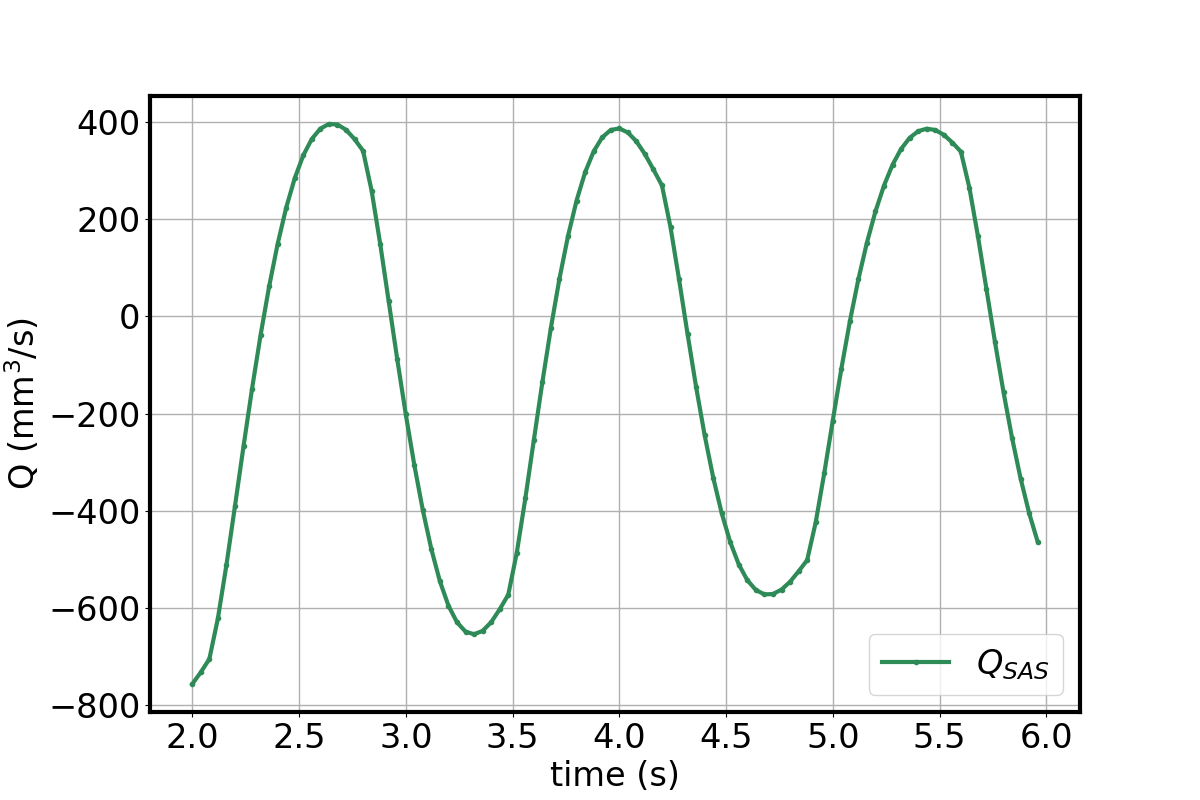
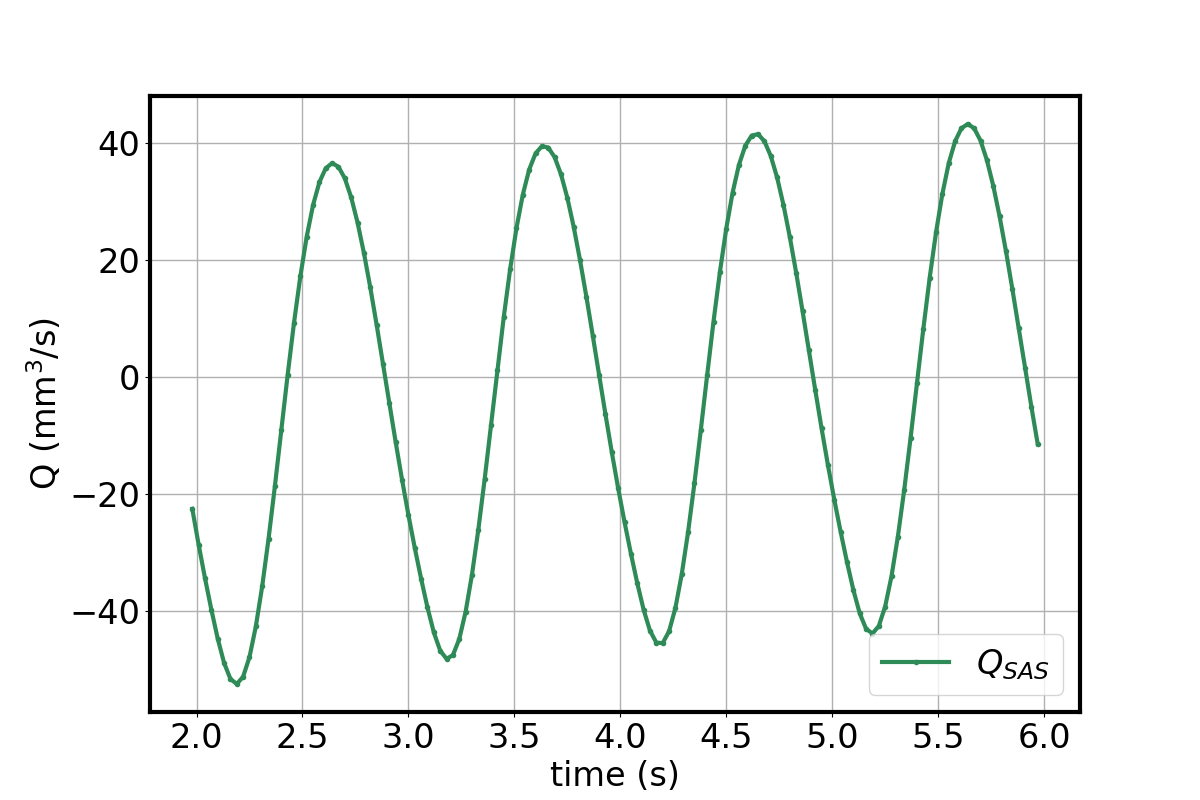
Update 15.03

diff --git a/MPET.py b/MPET.py
@@ -351,7 +351,7 @@ class MPET:
         [bc.apply(A) for bc in self.bcs_D]
 
         up = Function(W)
-        t = 0.0
+        self.t = 0.0
 
  
         dV_PREV_SAS = 0.0
@@ -359,7 +359,7 @@ class MPET:
       
         for i in range(0,self.numTsteps+1): #Time loop
             
-            self.update_time_expr(t)# Update all time dependent terms
+            self.update_time_expr(self.t)# Update all time dependent terms
             
             b = assemble(rhs)
             for bc in self.bcs_D:
@@ -372,28 +372,31 @@ class MPET:
             up_split = up.split(deepcopy = True)
             results = self.generate_diagnostics(*up_split)
 
-            xdmfU.write(up.sub(0), t)
-            xdmfP0.write(up.sub(1), t)
+            xdmfU.write(up.sub(0), self.t)
+            xdmfP0.write(up.sub(1), self.t)
             for j in range(self.numPnetworks):
-                xdmfP[j].write(up.sub(j+2), t)
+                xdmfP[j].write(up.sub(j+2), self.t)
 
 
             #For calculating volume change in Windkessel model
             results["dV_SAS_PREV"] = dV_PREV_SAS
             results["dV_VEN_PREV"] = dV_PREV_VEN
             
-            p_SAS_f, p_VEN_f,Vv_dot,Vs_dot = self.coupled_2P_model(p_SAS_f,p_VEN_f,results) #calculates windkessel pressure @ t
-            #p_SAS_f, p_VEN_f,p_SP_f,Vv_dot,Vs_dot = self.coupled_3P_model(p_SAS_f,p_VEN_f,p_SP_f,results) #calculates windkessel pressure @ t
+            #p_SAS_f, p_VEN_f,Vv_dot,Vs_dot,Q_AQ = self.coupled_2P_model(p_SAS_f,p_VEN_f,results) #calculates windkessel pressure @ t
+            p_SAS_f, p_VEN_f,p_SP_f,Vv_dot,Vs_dot,Q_AQ,Q_FM = self.coupled_3P_model(p_SAS_f,p_VEN_f,p_SP_f,results) #calculates windkessel pressure @ t
             self.update_windkessel_expr(p_SAS_f,p_VEN_f) # Update all terms dependent on the windkessel pressures
 
 
             results["p_SAS"] = p_SAS_f
             results["p_VEN"] = p_VEN_f
-            #if p_SP_f:
-            #    results["p_SP"] = p_SP_f
+            if p_SP_f in locals():
+                results["p_SP"] = p_SP_f
+
+            results["Q_AQ"] = Q_AQ
+            results["Q_FM"] = Q_FM
             results["Vv_dot"] = Vv_dot
             results["Vs_dot"] =  Vs_dot
-            results["t"] = t
+            results["t"] = self.t
 
             dV_PREV_SAS = results["dV_SAS"]
             dV_PREV_VEN = results["dV_VEN"]
@@ -403,7 +406,7 @@ class MPET:
             up_n.assign(up)
             progress += 1
 
-            t += self.dt
+            self.t += self.dt
          
         res = []
         res = split(up)
@@ -416,7 +419,7 @@ class MPET:
     def plotResults(self):
 
         plotDir = "%s/plots/" %self.filesave
-        plotCycle = 2 #Start plot after the second cycle
+        plotCycle = 5 #Start plot after the fifth cycle
         initPlot = int(self.numTsteps/self.T*plotCycle) 
 
         dV_fig, dV_ax = pylab.subplots(figsize=(12, 8))
@@ -514,8 +517,9 @@ class MPET:
 
         Q_SAS =  df["Q_SAS_N3"] 
         Q_VEN =  df["Q_VEN_N3"]
+        
 
-
+        
         # Plot outflow of CSF
         Qs_axs.plot(times[initPlot:-1], Q_SAS[initPlot:-1], markers[0], color="seagreen",label="$Q_{SAS}$")
 
@@ -534,6 +538,8 @@ class MPET:
         Qv_axs.grid(True)
         Qv_axs.legend()
         Qv_figs.savefig(plotDir + "brain-Q_ven.png")
+
+        
 
         BV = df["Q_SAS_N2"] + df["Q_VEN_N2"] 
         
@@ -572,8 +578,39 @@ class MPET:
         t_ax.legend()
         t_fig.savefig(plotDir + "brain-Ts.png")
     
-        
+
+        if "Q_AQ" in df.keys():
+
+            Qaq_figs, Qaq_axs  = pylab.subplots(figsize=(12, 8)) #Outflow CSF to SAS
+            Q_AQ = df["Q_AQ"]
+
+            Qfm_figs, Qfm_axs  = pylab.subplots(figsize=(12, 8)) #Outflow CSF to SAS
+
+
   
+            Qaq_axs.plot(times[initPlot:-1], Q_AQ[initPlot:-1], markers[0], color="darkmagenta",label="$Q_{AQ}$")
+            Qaq_axs.set_xlabel("time (s)")
+            Qaq_axs.set_xticks(x_ticks)
+            Qaq_axs.set_ylabel("Q (mm$^3$/s)")
+            Qaq_axs.grid(True)
+            Qaq_axs.legend()
+            Qaq_figs.savefig(plotDir + "brain-Q_aq.png")
+
+        if "Q_FM" in df.keys():
+
+            Qfm_figs, Qfm_axs  = pylab.subplots(figsize=(12, 8)) #Outflow CSF to SAS
+            Q_FM = df["Q_FM"]
+
+
+            Qfm_axs.plot(times[initPlot:-1], Q_FM[initPlot:-1], markers[0], color="darkmagenta",label="$Q_{FM}$")
+            Qfm_axs.set_xlabel("time (s)")
+            Qfm_axs.set_xticks(x_ticks)
+            Qfm_axs.set_ylabel("Q (mm$^3$/s)")
+            Qfm_axs.grid(True)
+            Qfm_axs.legend()
+            Qfm_figs.savefig(plotDir + "brain-Q_fm.png")
+
+
 
     def generate_diagnostics(self,*args):
         results = {}
@@ -715,50 +752,34 @@ class MPET:
         Q_VEN = results["Q_VEN_N3"]
         print("Q_VEN:",Q_VEN)
 
-        #Range to avoid instabilities
-        V_dotRange = 500
-        
-        #Volume change of ventricles
-        Vv_dot = 1/self.dt*(results["dV_VEN"]-results["dV_VEN_PREV"])
-        Vv_dot_WK = max([-V_dotRange, min([Vv_dot,V_dotRange])]) #Used in the WK model
+        #Scale to avoid instabilities
+        V_dotScale = 1/100
 
+        #Volume change of ventricles
+        Vv_dot = V_dotScale/self.dt*(results["dV_VEN"]-results["dV_VEN_PREV"])
+        
 
         #Volume change of SAS
-        Vs_dot = 1/self.dt*(results["dV_SAS"]-results["dV_SAS_PREV"])
+        Vs_dot = V_dotScale/self.dt*(results["dV_SAS"]-results["dV_SAS_PREV"])
 
-        Vs_dot_WK = max([-V_dotRange, min([Vs_dot,V_dotRange])]) #Used in the WK model
-        print("Volume change ventricles:",Vv_dot)
-        print("Volume change SAS",Vs_dot)
+        print("Rate of volume change, ventricles:",Vv_dot/V_dotScale)
+        print("Rate of volume change, SAS",Vs_dot/V_dotScale)
 
         #Conductance Aqueduct
         G_aq = np.pi*self.d**4/(128*self.L*self.mu_f[2]) #Poiseuille flow constant
       
-        Q_AQ = G_aq*(p_VEN - p_SAS)
+        Q_AQ = G_aq*(p_SAS - p_VEN)
         print("Q_AQ:",Q_AQ)
 
-        #ALT 1
+        
         """
-        dp_ven/dt = 1/C*dV_ven/dt
-        dp_sas/dt = 1/C(Q_SAS + G_aq(p_VEN - p_SAS))
-
-        b_SAS = p_SAS + self.dt/self.C_SAS * Q_SAS
-        b_VEN = p_VEN + self.dt/self.C_VEN *V_dot
-
-        A_11 = 1 + self.dt/self.C_SAS*G_aq
-        A_12 = -self.dt/self.C_SAS*G_aq
-        A_21 = 0
-        A_22 = 1
-        """
-
-        #ALT 2
-        """
-        dp_sas/dt = 1/C_sas(Vs_dot + Q_SAS + C_aq(p_VEN - p_SAS))
-        dp_ven/dt = 1/C_ven(Vv_dot + Q_VEn + C_aq(p_SAS - p_VEN))
+        dp_sas/dt = 1/C_sas(Vs_dot + Q_SAS + G_aq(p_VEN - p_SAS))
+        dp_ven/dt = 1/C_ven(Vv_dot + Q_VEN + G_aq(p_SAS - p_VEN))
         
         """
 
-        b_SAS = p_SAS + self.dt/self.C_SAS * (Q_SAS + Vs_dot_WK)
-        b_VEN = p_VEN + self.dt/self.C_VEN * (Q_VEN + Vv_dot_WK)
+        b_SAS = p_SAS + self.dt/self.C_SAS * (Q_SAS + Vs_dot)
+        b_VEN = p_VEN + self.dt/self.C_VEN * (Q_VEN + Vv_dot)
 
         A_11 = 1 + self.dt*G_aq/self.C_SAS
         A_12 = -self.dt*G_aq/self.C_SAS
@@ -771,7 +792,7 @@ class MPET:
 
         x = np.linalg.solve(A,b) #x_0 = p_SAS, x_1 = p_VEN
 
-        return x[0], x[1],Vv_dot,Vs_dot
+        return x[0], x[1],Vv_dot/V_dotScale,Vs_dot/V_dotScale,Q_AQ
 
     def coupled_3P_model(self,p_SAS,p_VEN,p_SP,results):
         """
@@ -782,7 +803,7 @@ class MPET:
         """
         #Assume only flow from ECS flow out to the CSF filled cavities
 
-        scale = 10**(0)
+        
         print("Pressure for SAS: ", p_SAS)
         print("Pressure for ventricles: ", p_VEN)
         print("Pressure in spinal-SAS:", p_SP)
@@ -795,36 +816,44 @@ class MPET:
         Q_VEN = results["Q_VEN_N3"]
         print("Q_VEN:",Q_VEN)
 
+        #To avoid instabilities
+        #if self.t < 3.0:
+        V_dotScale = 1/100
+        #else:
 
         #Volume change of ventricles
-        Vv_dot = 1/self.dt*(results["dV_VEN"]-results["dV_VEN_PREV"])
+        Vv_dot = V_dotScale/self.dt*(results["dV_VEN"]-results["dV_VEN_PREV"])
+        
         #Volume change of SAS
-        Vs_dot = 1/self.dt*(results["dV_SAS"]-results["dV_SAS_PREV"])
-
-        print("Volume change ventricles:",Vv_dot)
-        print("Volume change SAS",Vs_dot)
+        Vs_dot = V_dotScale/self.dt*(results["dV_SAS"]-results["dV_SAS_PREV"])
+        
+        
+        print("Volume change ventricles:",Vv_dot/V_dotScale)
+        print("Volume change SAS",Vs_dot/V_dotScale)
 
         #Conductance
         G_aq = np.pi*self.d**4/(128*self.L*self.mu_f[2]) #Poiseuille flow constant
         G_sas = G_aq*5 #From LM article
         G_fm = G_aq*10 #From LM article
-        Q_AQ = G_aq*(p_VEN - p_SAS)
-        Q_FM = G_aq*(p_VEN - p_SAS)
+
+        # "Positive" direction upwards, same as baledent article
+        Q_AQ = G_aq*(p_SAS - p_VEN)
+        Q_FM = G_fm*(p_SP - p_SAS)
 
         print("Q_AQ:",Q_AQ)
         print("Q_FM:",Q_FM)
+
         """
         Equations 
         dp_sas/dt = 1/C_sas(Vs_dot + Q_SAS + G_aq(p_VEN - p_SAS) + G_fm(p_SP-p_SAS)
         dp_ven/dt = 1/C_ven(Vv_dot + Q_VEn + G_aq(p_SAS - p_VEN))
         dp_sp/dt = 1/C_sp(G_fm(p_SAS-p_SP))
-        
         """
 
         b_SAS = p_SAS + self.dt/self.C_SAS * (Q_SAS + Vs_dot)
         b_VEN = p_VEN + self.dt/self.C_VEN * (Q_VEN + Vv_dot)
         b_SP = p_SP
-        A_11 = 1 + self.dt*G_aq/self.C_SAS
+        A_11 = 1 + self.dt*G_aq/self.C_SAS + self.dt*G_fm/self.C_SAS 
         A_12 = -self.dt*G_aq/self.C_SAS
         A_13 = -self.dt*G_fm/self.C_SAS
         A_21 = -self.dt*G_aq/self.C_VEN
@@ -838,9 +867,9 @@ class MPET:
         b = np.array([b_SAS, b_VEN, b_SP])
         A = np.array([[A_11, A_12, A_13],[A_21, A_22, A_23],[A_31, A_32, A_33]])
 
-        x = np.linalg.solve(A,b) #x_0 = p_SAS, x_1 = p_VEN
+        x = np.linalg.solve(A,b) #x_0 = p_SAS, x_1 = p_VEN, x_2 = p_SP
 
-        return x[0], x[1],x[2],Vv_dot,Vs_dot
+        return x[0], x[1],x[2],Vv_dot/V_dotScale,Vs_dot/V_dotScale,Q_AQ,Q_FM
 
     def coupled_4P_model(self,p_SAS,p_VEN,p_4VEN,p_SP,results):
         """

diff --git a/run_MPET_3D.py b/run_MPET_3D.py
@@ -23,50 +23,19 @@ class BoundaryInner(SubDomain):
 
 def run_MPET_3D_TestSphere():
 
-    ymlFile = open("configurations/3D_TEST_RigidMotion.yml") 
+    ymlFile = open("configurations/3D_TEST_RigidMotion_3PWK.yml") 
     parsedValues = yaml.load(ymlFile, Loader=yaml.FullLoader)
     materialParameters = parsedValues['material_parameters']
     settings = parsedValues['solver_settings']
     sourceParameters = parsedValues['source_data']
     boundaryParameters = parsedValues['boundary_parameters']
 
-
-    
-    """
-    origin = Point(0.0, 0.0, 0.0)
-
-    meshN = settings["mesh_resolution"]
-
-
-
-    r1 = 100  # Outer radius (mm)
-    r2 = 30  # Inner radius  (mm)
-
-    parenchyma = Sphere(origin, r1)
-    ventricles = Sphere(origin, r2)
-    channel = Box(Point(0.0, -50.0, -50.0),Point(100, 50.0, 50.0))
-
-    import numpy as np
-
-    g3d = parenchyma - ventricles #- channel
-
-    # Test printing
-    info("\nCompact output of 3D geometry:")
-    info(g3d)
-    info("\nVerbose output of 3D geometry:")
-    info(g3d, True)
-
-
-    mesh = generate_mesh(g3d, meshN)
-    info(mesh)
-    plot(mesh, "3D mesh")
-    """
     mesh = Mesh("meshes/sphere_mesh/sphere_hollow.xml")
     
     info(mesh)
-    plot(mesh, "3D mesh")
+    #plot(mesh, "3D mesh")
     
-    plt.show()
+    #plt.show()
     
     n = FacetNormal(mesh)  # normal vector on the boundary
     
@@ -107,7 +76,7 @@ def run_MPET_3D_TestSphere():
     }
 
 
-    Solver2D = MPET(
+    Solver3D = MPET(
         mesh,
         boundary_markers,
         boundary_conditionsU,
@@ -118,11 +87,11 @@ def run_MPET_3D_TestSphere():
         **boundaryParameters,
     )
     
-    Solver2D.printSetup()
+    Solver3D.printSetup()
 
-    Solver2D.solve()
+    Solver3D.solve()
 
-    Solver2D.plotResults()
+    Solver3D.plotResults()
  
  
 def generateUFL_BCexpressions():
@@ -161,3 +130,32 @@ def generateUFL_BCexpressions():
 
 if __name__ == "__main__":
     run_MPET_3D_TestSphere()
+    """
+    origin = Point(0.0, 0.0, 0.0)
+
+    meshN = settings["mesh_resolution"]
+
+
+
+    r1 = 100  # Outer radius (mm)
+    r2 = 30  # Inner radius  (mm)
+
+    parenchyma = Sphere(origin, r1)
+    ventricles = Sphere(origin, r2)
+    channel = Box(Point(0.0, -50.0, -50.0),Point(100, 50.0, 50.0))
+
+    import numpy as np
+
+    g3d = parenchyma - ventricles #- channel
+
+    # Test printing
+    info("\nCompact output of 3D geometry:")
+    info(g3d)
+    info("\nVerbose output of 3D geometry:")
+    info(g3d, True)
+
+
+    mesh = generate_mesh(g3d, meshN)
+    info(mesh)
+    plot(mesh, "3D mesh")
+    """
